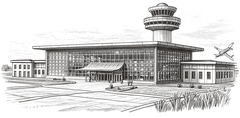
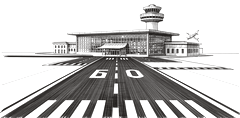
fix: Havaalanına pist, istasyona görünür demiryolu eklendi
- Havaalanı karakalem görseli öndeki pist şeridi (kesikli orta çizgi,
  eşik işaretleri, taksi yolu) ile yenilendi (?v=2)
- Demiryolu istasyonu görseline peron kenarında belirgin çift ray,
  traversler ve balast eklendi (?v=2)
- 3B: Airport3D cephe dokusu yalnızca bina bölgesini görecek şekilde
  kırpıldı; apron + pist + kenar/orta/eşik işaretleri + taksi yolu
  gerçek zemin geometrisi olarak eklendi
- 3B: Station3D cephe kırpımı güncellendi; peron, güvenlik çizgisi,
  balast yatağı, traversler ve çift ray geometrisi eklendi

diff --git a/src/components/UI/ThreeDPreview.tsx b/src/components/UI/ThreeDPreview.tsx
@@ -3147,7 +3147,10 @@ const LANDMARK_BODY_COLOR = '#f4f2ec';
 
 const Airport3D = ({ x, y, width, height, rad, textureSrc }: any) => {
   const tFacade = useTexture(textureSrc) as THREE.Texture;
-  const facTex = useMemo(() => makeLandmarkFacadeTexture(tFacade, 0.13), [tFacade]);
+  // Yeni karakalem görsel: üst %48 bina, alt %52 pist. Cephe dokusu yalnızca
+  // bina bölgesini gösterir (alttaki pist kırpılır); pist 3B'de gerçek Geniş
+  // zemin geometrisiyle (apron + pist + işaretler + taksi yolu) çizilir.
+  const facTex = useMemo(() => makeLandmarkFacadeTexture(tFacade, 0.52), [tFacade]);
   const w = width;
   const d = Math.max(height, 40 * SCALE);
   const bodyH = 66 * SCALE;          // terminal gövdesi ~6.6 m (2 kat)
@@ -3156,7 +3159,18 @@ const Airport3D = ({ x, y, width, height, rad, textureSrc }: any) => {
   const towerR = Math.max(4.5 * SCALE, w * 0.045);
   const cabH = 20 * SCALE;           // kabin
   const cabR = towerR * 1.8;
-  const towerX = w * 0.18;           // çizimdeki kule konumu (sağ-orta)
+  const towerX = w * 0.15;           // çizimdeki kule konumu (sağ-orta)
+
+  // --- Pist (runway) ölçüleri: cephenin önünde, izleyiciye doğru uzanır ---
+  const apronD = d * 0.14;                       // terminal önü apron şeridi
+  const runwayW = w * 0.55;                      // pist genişliği
+  const runwayLen = Math.max(w * 1.6, d * 2.2);  // pist uzunluğu
+  const runwayZ0 = d / 2 + apronD;               // pist başlangıcı (lokal Z)
+  const roadY = 0.05;                            // zemin decal yüksekliği (z-fighting önleme)
+  const markY = roadY + 0.12;
+  const dashCount = 12;
+  const dashLen = runwayLen * 0.05;
+  const keyCount = 8;
 
   return (
     <group position={[x, 0, y]} rotation={[0, rad, 0]}>
@@ -3194,13 +3208,64 @@ const Airport3D = ({ x, y, width, height, rad, textureSrc }: any) => {
           <meshStandardMaterial color="#333333" roughness={0.7} />
         </mesh>
       </group>
+
+      {/* --- PİST: apron + pist + işaretler (2B çizimdeki gibi cephenin önünde) --- */}
+      {/* Apron şeridi (terminal önü beton zemin) */}
+      <mesh position={[0, roadY / 2, d / 2 + apronD / 2]} receiveShadow>
+        <boxGeometry args={[w * 1.02, roadY, apronD]} />
+        <meshStandardMaterial color="#c9c6bd" roughness={0.95} />
+      </mesh>
+      {/* Pist gövdesi */}
+      <mesh position={[0, roadY / 2, runwayZ0 + runwayLen / 2]} receiveShadow>
+        <boxGeometry args={[runwayW, roadY, runwayLen]} />
+        <meshStandardMaterial color="#a3a09a" roughness={0.95} />
+      </mesh>
+      {/* Pist kenar çizgileri */}
+      {[-1, 1].map((sgn) => (
+        <mesh key={`edge${sgn}`} position={[sgn * (runwayW / 2 - runwayW * 0.025), markY, runwayZ0 + runwayLen / 2]}>
+          <boxGeometry args={[runwayW * 0.012, 0.05, runwayLen * 0.98]} />
+          <meshStandardMaterial color="#f2f1ed" roughness={0.8} />
+        </mesh>
+      ))}
+      {/* Kesikli orta çizgi */}
+      {Array.from({ length: dashCount }).map((_, i) => (
+        <mesh
+          key={`dash${i}`}
+          position={[0, markY, runwayZ0 + runwayLen * (0.08 + (0.84 * i) / (dashCount - 1))]}
+        >
+          <boxGeometry args={[runwayW * 0.02, 0.05, dashLen]} />
+          <meshStandardMaterial color="#f2f1ed" roughness={0.8} />
+        </mesh>
+      ))}
+      {/* Yakın uç eşik işaretleri (piyano tuşları) */}
+      {Array.from({ length: keyCount }).map((_, i) => (
+        <mesh
+          key={`key${i}`}
+          position={[
+            -runwayW / 2 + runwayW * (0.09 + (0.82 * i) / (keyCount - 1)),
+            markY,
+            runwayZ0 + runwayLen - runwayW * 0.06,
+          ]}
+        >
+          <boxGeometry args={[runwayW * 0.05, 0.05, runwayW * 0.09]} />
+          <meshStandardMaterial color="#f2f1ed" roughness={0.8} />
+        </mesh>
+      ))}
+      {/* Taksi yolu (apronu pista bağlar) */}
+      <mesh position={[w * 0.36, roadY / 2, runwayZ0 + runwayLen * 0.3]} receiveShadow>
+        <boxGeometry args={[Math.max(w * 0.36 - runwayW / 2, 2), roadY, runwayW * 0.16]} />
+        <meshStandardMaterial color="#b4b1a9" roughness={0.95} />
+      </mesh>
     </group>
   );
 };
 
 const Station3D = ({ x, y, width, height, rad, textureSrc }: any) => {
   const tFacade = useTexture(textureSrc) as THREE.Texture;
-  const facTex = useMemo(() => makeLandmarkFacadeTexture(tFacade, 0.14), [tFacade]);
+  // Yeni karakalem görsel: üst %80 bina + peron, alt %20 raylar. Cephe dokusu
+  // bina + peronu gösterir; raylar 3B'de gerçek zemin geometrisiyle (peron,
+  // balast, traversler, çift ray) cephenin önünde çizilir.
+  const facTex = useMemo(() => makeLandmarkFacadeTexture(tFacade, 0.2), [tFacade]);
   const w = width;
   const d = Math.max(height, 40 * SCALE);
   const bodyH = 66 * SCALE;          // ana bina ~6.6 m (2 kat)
@@ -3230,6 +3295,19 @@ const Station3D = ({ x, y, width, height, rad, textureSrc }: any) => {
     return s;
   }, [pavD, pavRidge]);
 
+  // --- Ray ölçüleri: cephenin önünde, cepheye paralel (X boyunca) çift hat ---
+  const platD = d * 0.1;                         // peron derinliği
+  const platH = bodyH * 0.1;                     // peron yüksekliği
+  const railLen = w * 1.35;                      // ray uzunluğu (bina genişliğinden biraz fazla)
+  const railSpan = 3.4;                          // bir hattın iki rayı arası (demişgen)
+  const trackGap = Math.max(d * 0.09, 7);        // iki hat arası mesafe
+  const track1Z = d / 2 + platD + railSpan;      // 1. hat merkezi
+  const track2Z = track1Z + trackGap;            // 2. hat merkezi
+  const ballastZ0 = d / 2 + platD;
+  const ballastD = (track2Z - track1Z) + railSpan * 2;
+  const sleeperStep = 5.5;
+  const sleeperCount = Math.max(6, Math.floor(railLen / sleeperStep));
+
   return (
     <group position={[x, 0, y]} rotation={[0, rad, 0]}>
       {/* Ana bina gövdesi */}
@@ -3256,6 +3334,44 @@ const Station3D = ({ x, y, width, height, rad, textureSrc }: any) => {
         <extrudeGeometry args={[pavRoofShape, { depth: pavW + 2 * SCALE, bevelEnabled: false }]} />
         <meshStandardMaterial color="#4a4a48" roughness={0.9} />
       </mesh>
+
+      {/* --- DEMİRYOLU: peron + balast + traversler + çift ray --- */}
+      {/* Peron (bina önü, güvenlik çizgili) */}
+      <mesh position={[0, platH / 2, d / 2 + platD / 2]} receiveShadow castShadow>
+        <boxGeometry args={[w * 1.05, platH, platD]} />
+        <meshStandardMaterial color="#c9c4b8" roughness={0.95} />
+      </mesh>
+      <mesh position={[0, platH + 0.02, d / 2 + platD - 0.5]} receiveShadow>
+        <boxGeometry args={[w * 1.05, 0.04, 0.7]} />
+        <meshStandardMaterial color="#efede6" roughness={0.8} />
+      </mesh>
+      {/* Balast yatağı (her iki hattı kapsar) */}
+      <mesh position={[0, 0.3, ballastZ0 + ballastD / 2]} receiveShadow>
+        <boxGeometry args={[railLen, 0.6, ballastD]} />
+        <meshStandardMaterial color="#b5b0a6" roughness={1} />
+      </mesh>
+      {[track1Z, track2Z].map((tz, ti) => (
+        <group key={`track${ti}`}>
+          {/* Traversler */}
+          {Array.from({ length: sleeperCount }).map((_, i) => (
+            <mesh
+              key={`sl${ti}-${i}`}
+              position={[-railLen / 2 + (railLen / (sleeperCount - 1)) * i, 0.72, tz]}
+              castShadow
+            >
+              <boxGeometry args={[1.4, 0.24, railSpan * 1.6]} />
+              <meshStandardMaterial color="#8a7a66" roughness={0.95} />
+            </mesh>
+          ))}
+          {/* Raylar */}
+          {[-1, 1].map((sgn) => (
+            <mesh key={`rail${ti}-${sgn}`} position={[0, 0.95, tz + sgn * (railSpan / 2)]} castShadow>
+              <boxGeometry args={[railLen, 0.28, 0.5]} />
+              <meshStandardMaterial color="#5a5a5c" roughness={0.35} metalness={0.75} />
+            </mesh>
+          ))}
+        </group>
+      ))}
     </group>
   );
 };

diff --git a/src/constants/symbols.ts b/src/constants/symbols.ts
@@ -669,12 +669,12 @@ export const SYMBOL_CATEGORIES = [
         type: 'symbol', width: 110, height: 220, fill: '#000000', description: 'Beş katlı okul binası ön görünümü (her katta 5 sınıf penceresi, çift kanatlı giriş kapısı, geniş üç basamaklı giriş merdiveni, bayrak direği ve okul tabelası).', isSketch: true },
       { id: 'arch-b5o-u', name: 'Okul (5 Katlı — Üstten)', src: '/assets/symbols/school_5_story_top.svg?v=2',
         type: 'symbol', width: 130, height: 97, fill: '#000000', description: 'Beş katlı okul çatı planı — kuşbakışı üst görünüm (9 sınıf — yazı tahtalı, iki merdiven hücresi, koridor, asansör hücresi, çift kanatlı giriş kapısı ve geniş giriş merdiveni, bayrak direği).', isSketch: true },
-      { id: 'arch-airport', name: 'Havaalanı', src: '/assets/symbols/airport_front.png',
-        thumbnail: '/assets/symbols/karakalem/airport_front.png', type: 'symbol',
-        width: 170, height: 84, fill: '#000000', description: 'Havaalanı kompleksi — cam cepheli terminal binası, hava trafik kontrol kulesi, yan idari binalar, hangar ve apronda uçak. Karakalem çizim; 3B görünümde gerçek hacimli model olarak çizilir.', isSketch: true },
-      { id: 'arch-trainstation', name: 'Demiryolu İstasyonu', src: '/assets/symbols/train_station_front.png',
-        thumbnail: '/assets/symbols/karakalem/train_station_front.png', type: 'symbol',
-        width: 150, height: 110, fill: '#000000', description: 'Demiryolu istasyonu — saatlı kemerli giriş, kemerli pencereli iki katlı ana bina, tek katlı kanat yapıları, peron tentesi ve lamba direkleri. Karakalem çizim; 3B görünümde beşik çatılı gerçek hacimli model olarak çizilir.', isSketch: true },
+      { id: 'arch-airport', name: 'Havaalanı', src: '/assets/symbols/airport_front.png?v=2',
+        thumbnail: '/assets/symbols/karakalem/airport_front.png?v=2', type: 'symbol',
+        width: 170, height: 84, fill: '#000000', description: 'Havaalanı kompleksi — cam cepheli terminal binası, hava trafik kontrol kulesi, yan idari binalar, apronda uçak ve önde pist orta çizgileri, eşik işaretleri ve taksi yoluyla görünür pist. Karakalem çizim; 3B görünümde gerçek hacimli model ve pist olarak çizilir.', isSketch: true },
+      { id: 'arch-trainstation', name: 'Demiryolu İstasyonu', src: '/assets/symbols/train_station_front.png?v=2',
+        thumbnail: '/assets/symbols/karakalem/train_station_front.png?v=2', type: 'symbol',
+        width: 150, height: 110, fill: '#000000', description: 'Demiryolu istasyonu — saatlı kemerli giriş, kemerli pencereli iki katlı ana bina, tek katlı kanat yapıları, peron tentesi, lamba direkleri ve önde traversli, balastlı çift ray. Karakalem çizim; 3B görünümde beşik çatılı gerçek hacimli model, peron ve raylar olarak çizilir.', isSketch: true },
     ]
   },
   {
